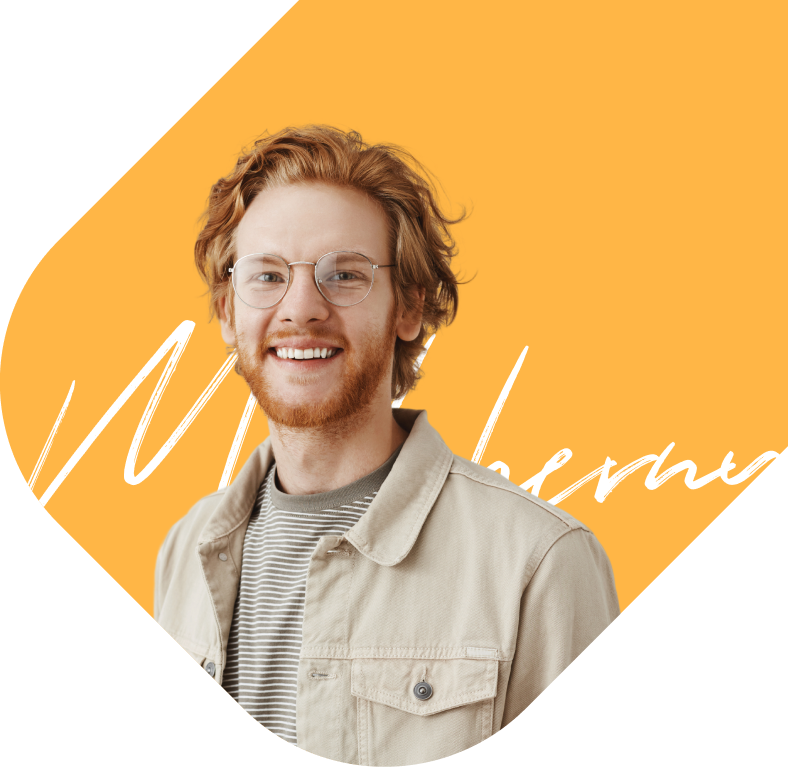
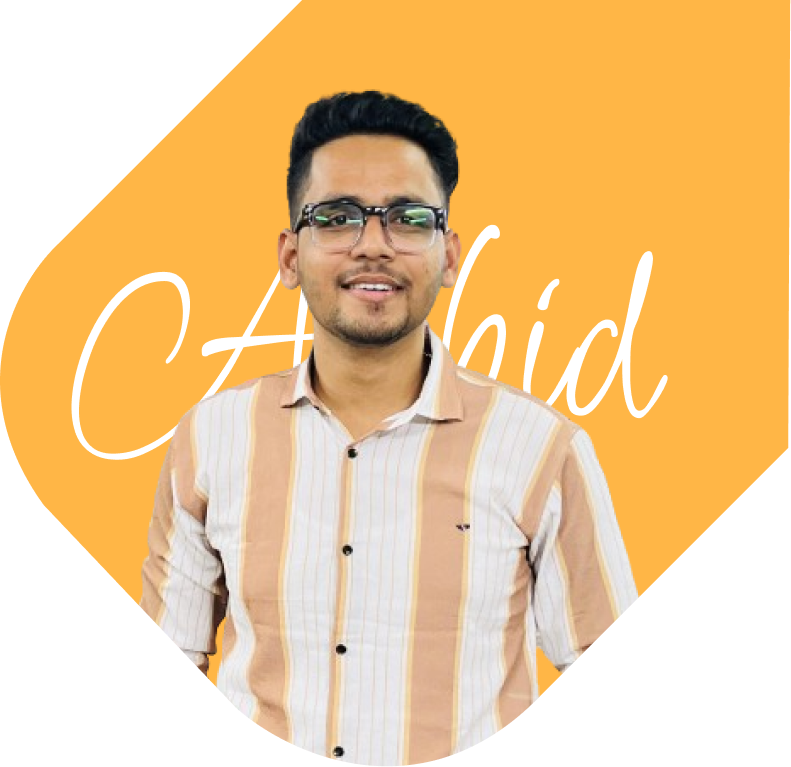
Home pages chenges

diff --git a/index.html b/index.html
@@ -4,9 +4,9 @@
 <head>
     <meta charset="utf-8" />
     <meta http-equiv="x-ua-compatible" content="ie=edge" />
-    <title>Perez - Tailwind CSS Personal Portfolio Template</title>
+    <title>Aabid Mansuri</title>
     <meta name="AdsBot-Google" content="noindex follow" />
-    <meta name="description" content="Perez - Tailwind CSS Personal Portfolio Template" />
+    <meta name="description" content="Aabid Mansuri" />
     <meta name="viewport" content="width=device-width, initial-scale=1, shrink-to-fit=no" />
 
     <!-- Favicon -->
@@ -1026,7 +1026,7 @@
                             </button>
                             <button data-tab="awards_tab"
                                 class="tab-btn justify-between items-center inline-flex group">
-                                Awards
+                                Certification
                                 <span class="inline-block ml-3 group-hover:animate-arrow-move-up">
                                     <svg width="24" height="24" viewBox="0 0 24 24" fill="none"
                                         xmlns="http://www.w3.org/2000/svg">
@@ -1120,15 +1120,15 @@
                                 <div
                                     class="pt-[30px] px-7 pb-7 bg-black-500 rounded-2xl transition-all hover:shadow-2xl hover:bg-white flex flex-wrap flex-col gap-8 justify-between">
                                     <span
-                                        class="text-sm font-normal font-Inter leading-tight text-black-text-800">03/216
+                                        class="text-sm font-normal font-Inter leading-tight text-black-text-800">03/2024
                                         – Running</span>
                                     <div>
                                         <p
                                             class="text-lg font-normal font-sans leading-7 text-black-800 relative z-[1] before:rounded-full before:bg-orange before:block before:absolute before:top-[50%] before:translate-y-[-50%] before:left-0 before:-z-[1] before:w-[8px] before:h-[8px] pl-4">
-                                            Axtra
+                                            Inbox infotech PVT LTD
                                         </p>
                                         <h4 class="font-bold font-Syne leading-normal text-2xl text-black-800">
-                                            Lead digital marketer
+                                            Product / UI&UX Designer
                                         </h4>
                                     </div>
                                 </div>
@@ -1136,15 +1136,15 @@
                                 <div
                                     class="pt-[30px] px-7 pb-7 bg-black-500 rounded-2xl transition-all hover:shadow-2xl hover:bg-white flex flex-wrap flex-col gap-8 justify-between">
                                     <span
-                                        class="text-sm font-normal font-Inter leading-tight text-black-text-800">03/2008
-                                        – 07/2011</span>
+                                        class="text-sm font-normal font-Inter leading-tight text-black-text-800">05/2023
+                                        – 02/2024</span>
                                     <div>
                                         <p
                                             class="text-lg font-normal font-sans leading-7 text-black-800 relative z-[1] before:rounded-full before:bg-orange before:block before:absolute before:top-[50%] before:translate-y-[-50%] before:left-0 before:-z-[1] before:w-[8px] before:h-[8px] pl-4">
-                                            Axtra
+                                            Adri IT Solutions
                                         </p>
                                         <h4 class="font-bold font-Syne leading-normal text-2xl text-black-800">
-                                            JavaScript developer
+                                            UI&UX Designer
                                         </h4>
                                     </div>
                                 </div>
@@ -1152,15 +1152,15 @@
                                 <div
                                     class="pt-[30px] px-7 pb-7 bg-black-500 rounded-2xl transition-all hover:shadow-2xl hover:bg-white flex flex-wrap flex-col gap-8 justify-between">
                                     <span
-                                        class="text-sm font-normal font-Inter leading-tight text-black-text-800">03/2008
-                                        – 07/2011</span>
+                                        class="text-sm font-normal font-Inter leading-tight text-black-text-800">08/2021
+                                        – 04/2023</span>
                                     <div>
                                         <p
                                             class="text-lg font-normal font-sans leading-7 text-black-800 relative z-[1] before:rounded-full before:bg-orange before:block before:absolute before:top-[50%] before:translate-y-[-50%] before:left-0 before:-z-[1] before:w-[8px] before:h-[8px] pl-4">
-                                            Axtra
+                                            Quix Solution PVT LTD 
                                         </p>
                                         <h4 class="font-bold font-Syne leading-normal text-2xl text-black-800">
-                                            Product designer
+                                            Graphic / UI&UX Designer
                                         </h4>
                                     </div>
                                 </div>
@@ -1168,15 +1168,15 @@
                                 <div
                                     class="pt-[30px] px-7 pb-7 bg-black-500 rounded-2xl transition-all hover:shadow-2xl hover:bg-white flex flex-wrap flex-col gap-8 justify-between">
                                     <span
-                                        class="text-sm font-normal font-Inter leading-tight text-black-text-800">03/2008
-                                        – 07/2011</span>
+                                        class="text-sm font-normal font-Inter leading-tight text-black-text-800">07/2019
+                                        – 06/2021</span>
                                     <div>
                                         <p
                                             class="text-lg font-normal font-sans leading-7 text-black-800 relative z-[1] before:rounded-full before:bg-orange before:block before:absolute before:top-[50%] before:translate-y-[-50%] before:left-0 before:-z-[1] before:w-[8px] before:h-[8px] pl-4">
-                                            Axtra
+                                            OTL India
                                         </p>
                                         <h4 class="font-bold font-Syne leading-normal text-2xl text-black-800">
-                                            UX researcher
+                                            Graphic Designer | Wordpress Developer
                                         </h4>
                                     </div>
                                 </div>
@@ -1192,15 +1192,14 @@
                                 <div
                                     class="pt-[30px] px-7 pb-7 bg-black-500 rounded-2xl transition-all hover:shadow-2xl hover:bg-white flex flex-wrap gap-[30px] md:gap-[60px] lg:gap-[104px]">
                                     <span
-                                        class="text-sm font-normal font-Inter leading-tight text-black-text-800">003/2008
-                                        – 07/2011</span>
+                                        class="text-sm font-normal font-Inter leading-tight text-black-text-800">003/2021
+                                        – 07/2024</span>
                                     <div class="flex-1">
-                                        <p
-                                            class="text-lg font-normal font-sans leading-7 text-black-800 relative z-[1] before:rounded-full before:bg-orange before:block before:absolute before:top-[50%] before:translate-y-[-50%] before:left-0 before:-z-[1] before:w-[8px] before:h-[8px] pl-4">
-                                            Axtra
+                                        <p class="text-lg font-normal font-sans leading-7 text-black-800 relative z-[1] before:rounded-full before:bg-orange before:block before:absolute before:top-[50%] before:translate-y-[-50%] before:left-0 before:-z-[1] before:w-[8px] before:h-[8px] pl-4">
+                                            Vadodara institute of engineering
                                         </p>
                                         <h4 class="font-bold font-Syne leading-normal text-2xl text-black-800">
-                                            BA Business Management
+                                            BCA Bachelor of Computer Applications
                                         </h4>
                                     </div>
                                 </div>
@@ -1213,10 +1212,10 @@
                                     <div class="flex-1">
                                         <p
                                             class="text-lg font-normal font-sans leading-7 text-black-800 relative z-[1] before:rounded-full before:bg-orange before:block before:absolute before:top-[50%] before:translate-y-[-50%] before:left-0 before:-z-[1] before:w-[8px] before:h-[8px] pl-4">
-                                            Axtra
+                                            M E S School - Vadodara
                                         </p>
                                         <h4 class="font-bold font-Syne leading-normal text-2xl text-black-800">
-                                            BA Business Management
+                                            12th HSC Scinces 
                                         </h4>
                                     </div>
                                 </div>
@@ -1224,15 +1223,15 @@
                                 <div
                                     class="pt-[30px] px-7 pb-7 bg-black-500 rounded-2xl transition-all hover:shadow-2xl hover:bg-white flex flex-wrap gap-[30px] md:gap-[60px] lg:gap-[104px]">
                                     <span
-                                        class="text-sm font-normal font-Inter leading-tight text-black-text-800">03/2008
-                                        – 07/2011</span>
+                                        class="text-sm font-normal font-Inter leading-tight text-black-text-800">03/2017
+                                        – 07/2019</span>
                                     <div class="flex-1">
                                         <p
                                             class="text-lg font-normal font-sans leading-7 text-black-800 relative z-[1] before:rounded-full before:bg-orange before:block before:absolute before:top-[50%] before:translate-y-[-50%] before:left-0 before:-z-[1] before:w-[8px] before:h-[8px] pl-4">
-                                            Axtra
+                                            Sayaji High School - Vadodara
                                         </p>
                                         <h4 class="font-bold font-Syne leading-normal text-2xl text-black-800">
-                                            BA Business Management
+                                            10th SSC
                                         </h4>
                                     </div>
                                 </div>
@@ -1326,7 +1325,7 @@
                         </div>
                         <div id="awards_tab" class="tab-content">
                             <h4 class="text-black-800 text-2xl lg:text-[32px] font-bold font-Syne mb-6">
-                                Awards
+                                Certification 
                             </h4>
 
                             <div class="grid grid-cols-1 sm:grid-cols-2 gap-6">
@@ -1440,15 +1439,15 @@
                         <div class="flex flex-wrap flex-col gap-3">
                             <div class="flex flex-wrap gap-2">
                                 <a class="text-xs text-black-text-800 uppercase font-medium font-Inter leading-none py-[6px] px-4 rounded-[40px] border border-black-text-400 transition-all hover:bg-active hover:border-active hover:text-white"
-                                    href="projects.html">APP</a>
+                                    href="projects.html">wireframe</a>
                                 <a class="text-xs text-black-text-800 uppercase font-medium font-Inter leading-none py-[6px] px-4 rounded-[40px] border border-black-text-400 transition-all hover:bg-active hover:border-active hover:text-white"
-                                    href="projects.html">DEVELOPMENT</a>
+                                    href="projects.html">UI design</a>
                             </div>
                             <div
                                 class="flex flex-wrap items-center justify-between text-black-800 hover:text-orange group">
                                 <h4
                                     class="font-bold font-Syne text-center leading-10 text-[20px] lg:text-[24px] xl:text-[32px] capitalize">
-                                    <a class="transition-all" href="project-details.html">Basinik Finance App</a>
+                                    <a class="transition-all" href="project-details.html">Baby Plante E-commerce Store</a>
                                 </h4>
                                 <a class="group-hover:animate-arrow-move-up" href="project-details.html">
                                     <svg width="40" height="40" viewBox="0 0 40 40" fill="none"
@@ -1467,20 +1466,20 @@
 
                     <div class="col-span-12 md:col-span-6" data-aos="fade-up" data-aos-delay="500">
                         <div class="rounded-[20px] overflow-hidden mb-6">
-                            <img src="assets/images/projects/project2.png" alt="project1" />
+                            <img src="public/images/project2.png" alt="project2" />
                         </div>
                         <div class="flex flex-wrap flex-col gap-3">
                             <div class="flex flex-wrap gap-2">
                                 <a class="text-xs text-black-text-800 uppercase font-medium font-Inter leading-none py-[6px] px-4 rounded-[40px] border border-black-text-400 transition-all hover:bg-active hover:border-active hover:text-white"
-                                    href="projects.html">APP</a>
+                                    href="projects.html">wireframe</a>
                                 <a class="text-xs text-black-text-800 uppercase font-medium font-Inter leading-none py-[6px] px-4 rounded-[40px] border border-black-text-400 transition-all hover:bg-active hover:border-active hover:text-white"
-                                    href="projects.html">DEVELOPMENT</a>
+                                    href="projects.html">UI design</a>
                             </div>
                             <div
                                 class="flex flex-wrap items-center justify-between text-black-800 hover:text-orange group">
                                 <h4
                                     class="font-bold font-Syne text-center leading-10 text-[20px] lg:text-[24px] xl:text-[32px] capitalize">
-                                    <a class="transition-all" href="project-details.html">Oxilex Dashboard design</a>
+                                    <a class="transition-all" href="project-details.html">Lubricant Transport</a>
                                 </h4>
                                 <a class="group-hover:animate-arrow-move-up" href="project-details.html">
                                     <svg width="40" height="40" viewBox="0 0 40 40" fill="none"

diff --git a/about.html b/about.html
@@ -5,9 +5,9 @@
 <head>
     <meta charset="utf-8" />
     <meta http-equiv="x-ua-compatible" content="ie=edge" />
-    <title>Perez - Tailwind CSS Personal Portfolio Template</title>
+    <title>Aabid Mansuri</title>
     <meta name="AdsBot-Google" content="noindex follow" />
-    <meta name="description" content="Perez - Tailwind CSS Personal Portfolio Template">
+    <meta name="description" content="Aabid Mansuri">
     <meta name="viewport" content="width=device-width, initial-scale=1, shrink-to-fit=no" />
 
     <!-- Favicon -->

diff --git a/project-details.html b/project-details.html
@@ -5,9 +5,9 @@
 <head>
     <meta charset="utf-8" />
     <meta http-equiv="x-ua-compatible" content="ie=edge" />
-    <title>Perez - Tailwind CSS Personal Portfolio Template</title>
+    <title>Aabid Mansuri</title>
     <meta name="AdsBot-Google" content="noindex follow" />
-    <meta name="description" content="Perez - Tailwind CSS Personal Portfolio Template">
+    <meta name="description" content="Aabid Mansuri">
     <meta name="viewport" content="width=device-width, initial-scale=1, shrink-to-fit=no" />
 
     <!-- Favicon -->

diff --git a/projects.html b/projects.html
@@ -5,9 +5,9 @@
 <head>
     <meta charset="utf-8" />
     <meta http-equiv="x-ua-compatible" content="ie=edge" />
-    <title>Perez - Tailwind CSS Personal Portfolio Template</title>
+    <title>Aabid Mansuri</title>
     <meta name="AdsBot-Google" content="noindex follow" />
-    <meta name="description" content="Perez - Tailwind CSS Personal Portfolio Template">
+    <meta name="description" content="Aabid Mansuri">
     <meta name="viewport" content="width=device-width, initial-scale=1, shrink-to-fit=no" />
 
     <!-- Favicon -->
